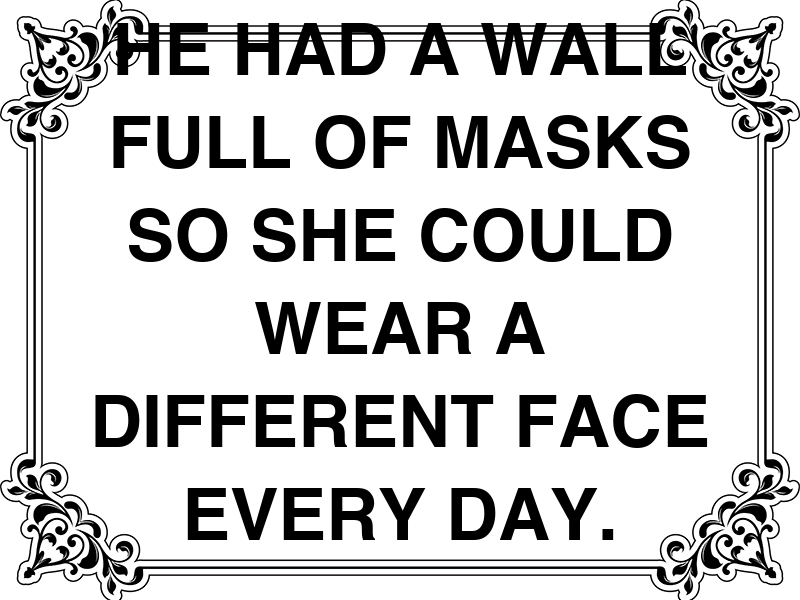
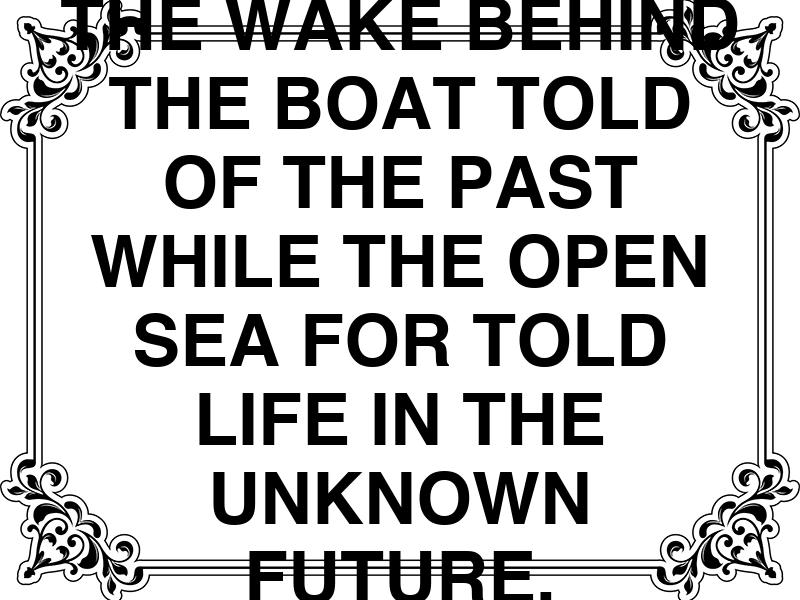
y height fixed on text wrap

Changed region(s): [[0.0625, 0.0, 0.9375, 0.75], [0.2188, 0.78, 0.7812, 1.0]]

diff --git a/Scripts/addTextToImage.py b/Scripts/addTextToImage.py
@@ -1,24 +1,52 @@
-import os
 from PIL import Image, ImageDraw, ImageFont
+from textRandomiser import select_line
 
-def write_on_image(words, typeface, picture):
-    if os.path.isfile(picture):
-        with Image.open(picture).convert("RGBA") as base_image:
-            
-            #initialise blank image for text
-            text_image = Image.new("RGBA", base_image.size, (255, 255, 255, 0))
+def wrap_text(text, max_width, font):
+    lines = []
+    words = text.split(' ')
+     
+    current_line = ''
+    for word in words:
+        test_line = current_line + word + ' '
+        left, top, right, bottom = font.getbbox(test_line)
+        line_width = right - left
+        if line_width <= max_width:
+            current_line = test_line
+        else:
+            lines.append(current_line[:-1])
+            current_line = word + ' '
+ 
+    lines.append(current_line[:-1])
+    return lines
 
-            #define font to be used
-            fnt = ImageFont.truetype(typeface, 40)
-            #simplify ImageDraw call, calling our pre-initialised blank image
-            d = ImageDraw.Draw(text_image)
+def add_text_to_image(image, sentence, font_file, font_size, offset):
+    # Load a suitable font with the desired size
+    font = ImageFont.truetype(font_file, font_size)
+     
+    # Apply line wrap if the text is longer than the image width
+    max_width = int(image.width * 0.9)
+    wrapped_text = wrap_text(sentence, max_width, font)
+     
+    draw = ImageDraw.Draw(image)
+    line_spacing = 1.1  # Adjust this value based on your needs
+    x = (image.width - max_width) // 2
+    
+    # Fixed line height based on font size, ignoring ascenders and descenders
+    line_height = int(font_size * line_spacing)
+    
+    # Calculate the total height of the text block without extra space after the last line
+    total_text_height = (len(wrapped_text) - 1) * line_height + font_size
 
-            #write text
-            d.text((40, 30), words.upper(), font=fnt, fill=(0, 0, 0, 255))
-            
-            #merge both images
-            out = Image.alpha_composite(base_image, text_image)
-
-            out.save("test.png")
-    else:
-        print('No image found!')
+    # Calculate the starting y position to center the text block
+    y = (image.height - total_text_height) // 2 + offset #Alter this offset for different fonts
+    
+    # Draw each line of text on the image
+    for line in wrapped_text:
+        left, top, right, bottom = font.getbbox(line)
+        line_width = right - left
+        # Draw the line, centre it horizontally and position it vertically
+        draw.text(((image.width - line_width) // 2, y), line, "Black", font=font)
+        y += line_height  # Move the y position for the next line
+ 
+    # Save the image to disk
+    image.save("Output/output.png")

diff --git a/Scripts/wrapTest.py b/Scripts/wrapTest.py
@@ -1,6 +1,4 @@
 from PIL import Image, ImageDraw, ImageFont
-import numpy as np
-import matplotlib.pyplot as plt
 from textRandomiser import select_line
 
 def wrap_text(text, max_width, font):
@@ -22,7 +20,6 @@ def wrap_text(text, max_width, font):
     return lines
 
 def add_text_to_image(image, sentence):
-     
     # Load a suitable font with the desired size
     font_size = 72
     font = ImageFont.truetype("Fonts/Helvetica-Bold.ttf", font_size)
@@ -32,23 +29,34 @@ def add_text_to_image(image, sentence):
     wrapped_text = wrap_text(sentence, max_width, font)
      
     draw = ImageDraw.Draw(image)
-    line_spacing = 1.3  # Adjust this value based on your needs
+    line_spacing = 1.1  # Adjust this value based on your needs
     x = (image.width - max_width) // 2
-    y = (image.height - int(font_size * len(wrapped_text) * line_spacing)) // 2
+    
+    # Fixed line height based on font size, ignoring ascenders and descenders
+    line_height = int(font_size * line_spacing)
+    
+    # Calculate the total height of the text block without extra space after the last line
+    total_text_height = (len(wrapped_text) - 1) * line_height + font_size
+
+    # Calculate the starting y position to center the text block
+    y = (image.height - total_text_height) // 2 + 7 #Alter this offset for different fonts
+    
+    # Draw each line of text on the image
     for line in wrapped_text:
         left, top, right, bottom = font.getbbox(line)
         line_width = right - left
+        # Draw the line, centre it horizontally and position it vertically
         draw.text(((image.width - line_width) // 2, y), line, "Black", font=font)
-        y += int(font_size * line_spacing)
+        y += line_height  # Move the y position for the next line
  
-    # save image to disk
+    # Save the image to disk
     image.save("Output/output.png")
 
 # input image
 image = Image.open("Images/decorative frame 800 x 600.png")
  
-#input text to be wrapped on the input image
-sentence = select_line("Text/textwrapexample.txt").upper()
+# input text to be wrapped on the input image
+sentence = select_line("Text/text.txt").upper()
 print(sentence)
  
 add_text_to_image(image, sentence)

diff --git a/Scripts/print.py b/Scripts/print.py
@@ -1,7 +1,14 @@
-from addTextToImage import write_on_image
+from PIL import Image
+from addTextToImage import add_text_to_image
 from textRandomiser import select_line
 
-useable_text = select_line('text.txt')
-font_file = "Fonts/Helvetica-Bold.ttf"
-image_frame = "Images/decorative frame 800 x 600.png"
-write_on_image(useable_text, font_file, image_frame)
+# input image and text
+image = Image.open("Images/decorative frame 800 x 600.png")
+sentence = select_line("Text/text.txt").upper()
+font = "Fonts/Helvetica-Bold.ttf"
+font_size = 72
+manual_offset = 7
+
+print(sentence)
+ 
+add_text_to_image(image, sentence, font, font_size, manual_offset)
